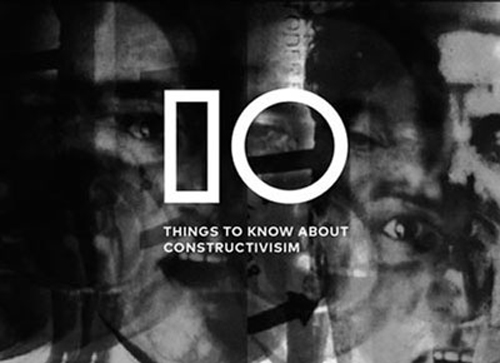
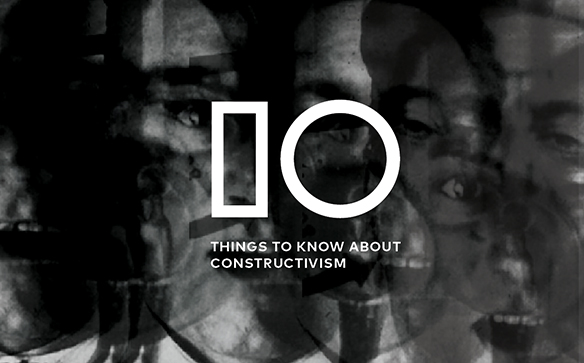
fixing

diff --git a/finalwebsite/pages.css b/finalwebsite/pages.css
@@ -54,10 +54,10 @@ table {
 
 body{
 	
-	font-family: 'Raleway', sans-serif;
-	font-size:10px;
+	font-family: 'Work Sans', sans-serif;
+	font-size:11px;
 	line-height:21px;
-	font-weight:normal;
+	font-weight:Light;
 	margin-left:2em;
 	margin-top:1.5%;
 	
@@ -66,9 +66,9 @@ body{
 
 
 h1{
-	font-family:'Raleway';
+	font-family:'Work Sans';
 	font-size:15px;
-	font-weight:bold;
+	font-weight:Extra-Light;
 	padding-top:5%;
 	position:absolute;
 	left:50%;
@@ -162,7 +162,7 @@ a {
 
 .main-nav {
     width: 100%;
-    height:20%;
+    height:25%;
 	top:0%;
     background-color: #FFFFFF;
     position: fixed;

diff --git a/finalwebsite/wayfinding.html b/finalwebsite/wayfinding.html
@@ -30,7 +30,7 @@
 	
 	<div id='description'>
 	
-	<p>The wayfinding project was a curration of a day at one of Boston's many squares. The square I chose to explore is Central Square, a square full of art, good food and several famous venues. The challenge of the assignment was to create an easy to use map that will guide people through the pre selected path that you created.
+	<p>This page is currently being edited more work soon to come!
 </p>
 
 </nav>
@@ -40,9 +40,6 @@
 
 <div id='images'>
 
-<img src ="wayfinding/mapinside.jpg" alt>
-
-<img src ="wayfinding/grid.jpg" alt>
 
 </div>
 	

diff --git a/finalwebsite/AboutMe.html b/finalwebsite/AboutMe.html
@@ -4,6 +4,7 @@
 
 <head>
 	<link rel='shortcut icon' type='image/x-icon' href='boston2030/Anna.icon.ico' />
+
 <link href='https://fonts.googleapis.com/css?family=Raleway:400,500,600,700' rel='stylesheet' type='text/css'>
 	    <!--[if lt IE 9]>
 	    <script src="http://html5shiv.googlecode.com/svn/trunk/html5.js"></script>

diff --git a/finalwebsite/index.html b/finalwebsite/index.html
@@ -40,7 +40,7 @@
 			
 			
 			<a href="10Things.html">
-		<img src ="tenthings/10thingsCover.jpg" alt>
+		<img src ="tenthings/10thingscover.jpg" alt>
 	</a>
 
 	
